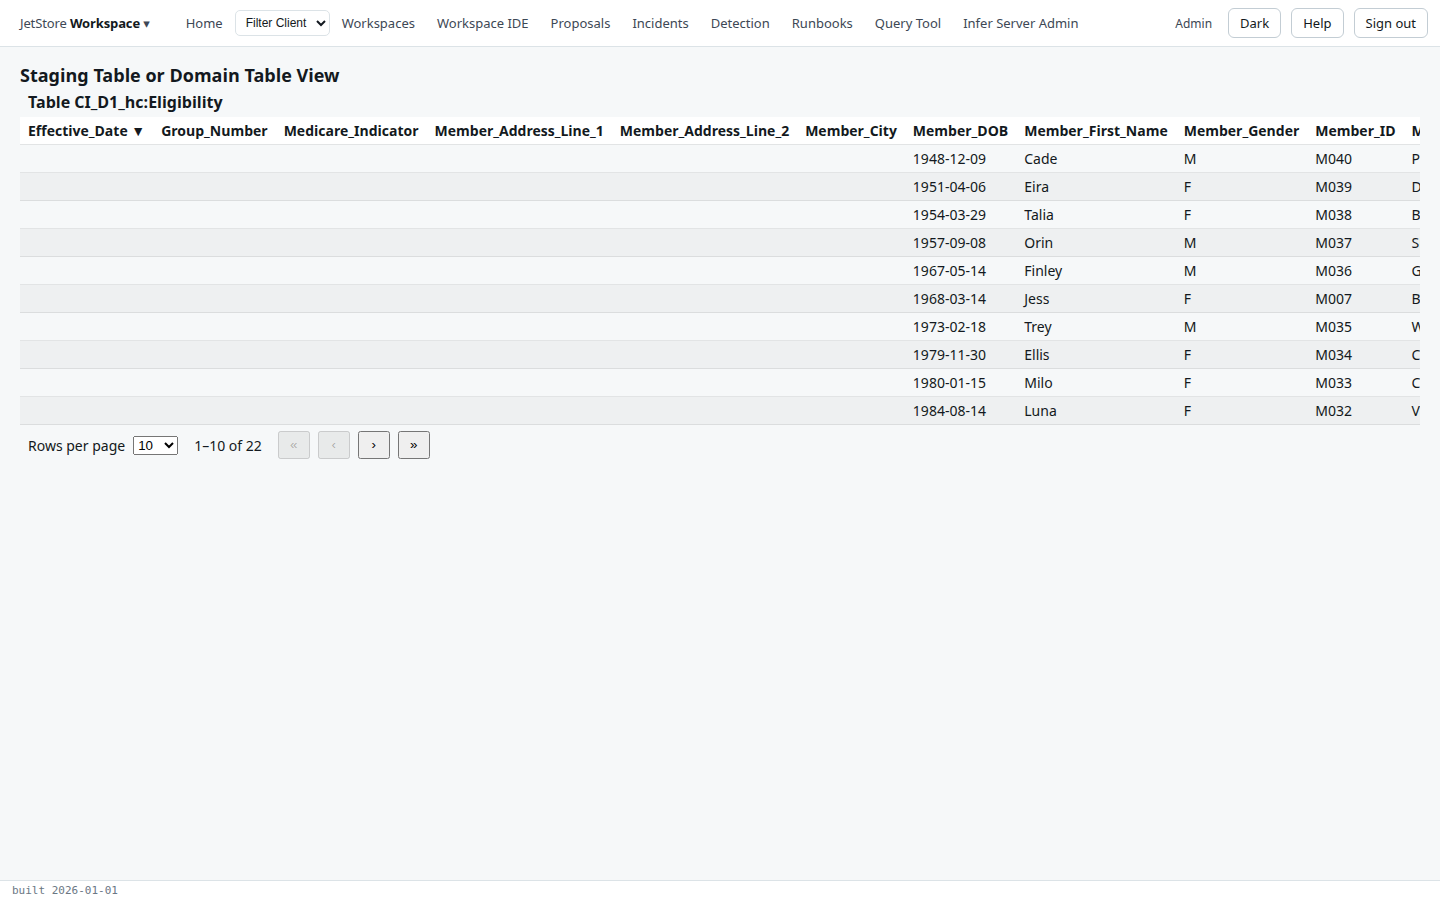
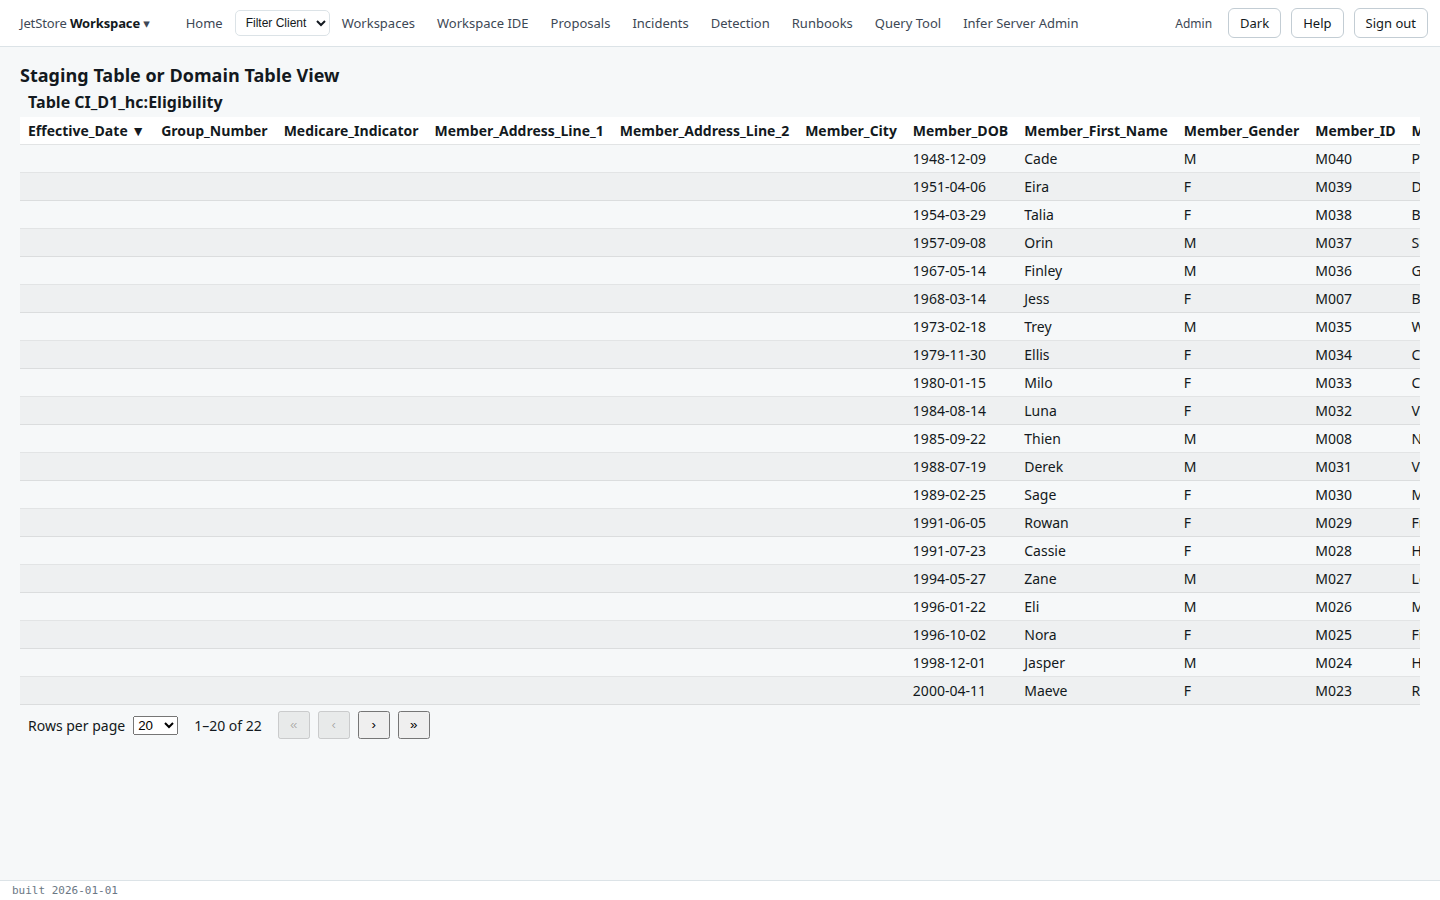
docs: screenshots retaken at 4.1.22
Taken from a local stack built at f63e97a2, with jets_ws at c318b6c7.
42 of 42 specs pass.

Paged lists now start at 20 rows, so the table view, loaded-data and
first-pipeline tables, both file-mapping images and the Input Records
dialog show 20 rows and the footer. The paste-mapping dialog changes by a
few corner pixels from the longer table behind it. The Workspace IDE and
workspace-editing images show compiled file sizes that changed by 1 KB or
1 B at this commit.

The Process Errors spec expected all 27 errors on one page; it now
expects 20 and the footer "1–20 of 27", as the screen and its page say.

diff --git a/docs/screenshots/specs/data/process-errors.spec.ts b/docs/screenshots/specs/data/process-errors.spec.ts
@@ -10,7 +10,9 @@ test("Process Errors of the run with errors, an error's input records and its ru
   await openRunScreen(page, "errors", "View Process Errors");
   const errors = await waitForTable(page);
   await expect(page).toHaveURL(/\/processErrors\/1767778200302$/);
-  await expect(errors.locator("tbody tr")).toHaveCount(27);
+  // 27 errors, 20 to a page.
+  await expect(errors.locator("tbody tr")).toHaveCount(20);
+  await expect(page.getByText("1–20 of 27")).toBeVisible();
   await selectRow(errors, "MED100007");
   // The error message is in the last columns.
   await scrollToLastColumns(errors);
